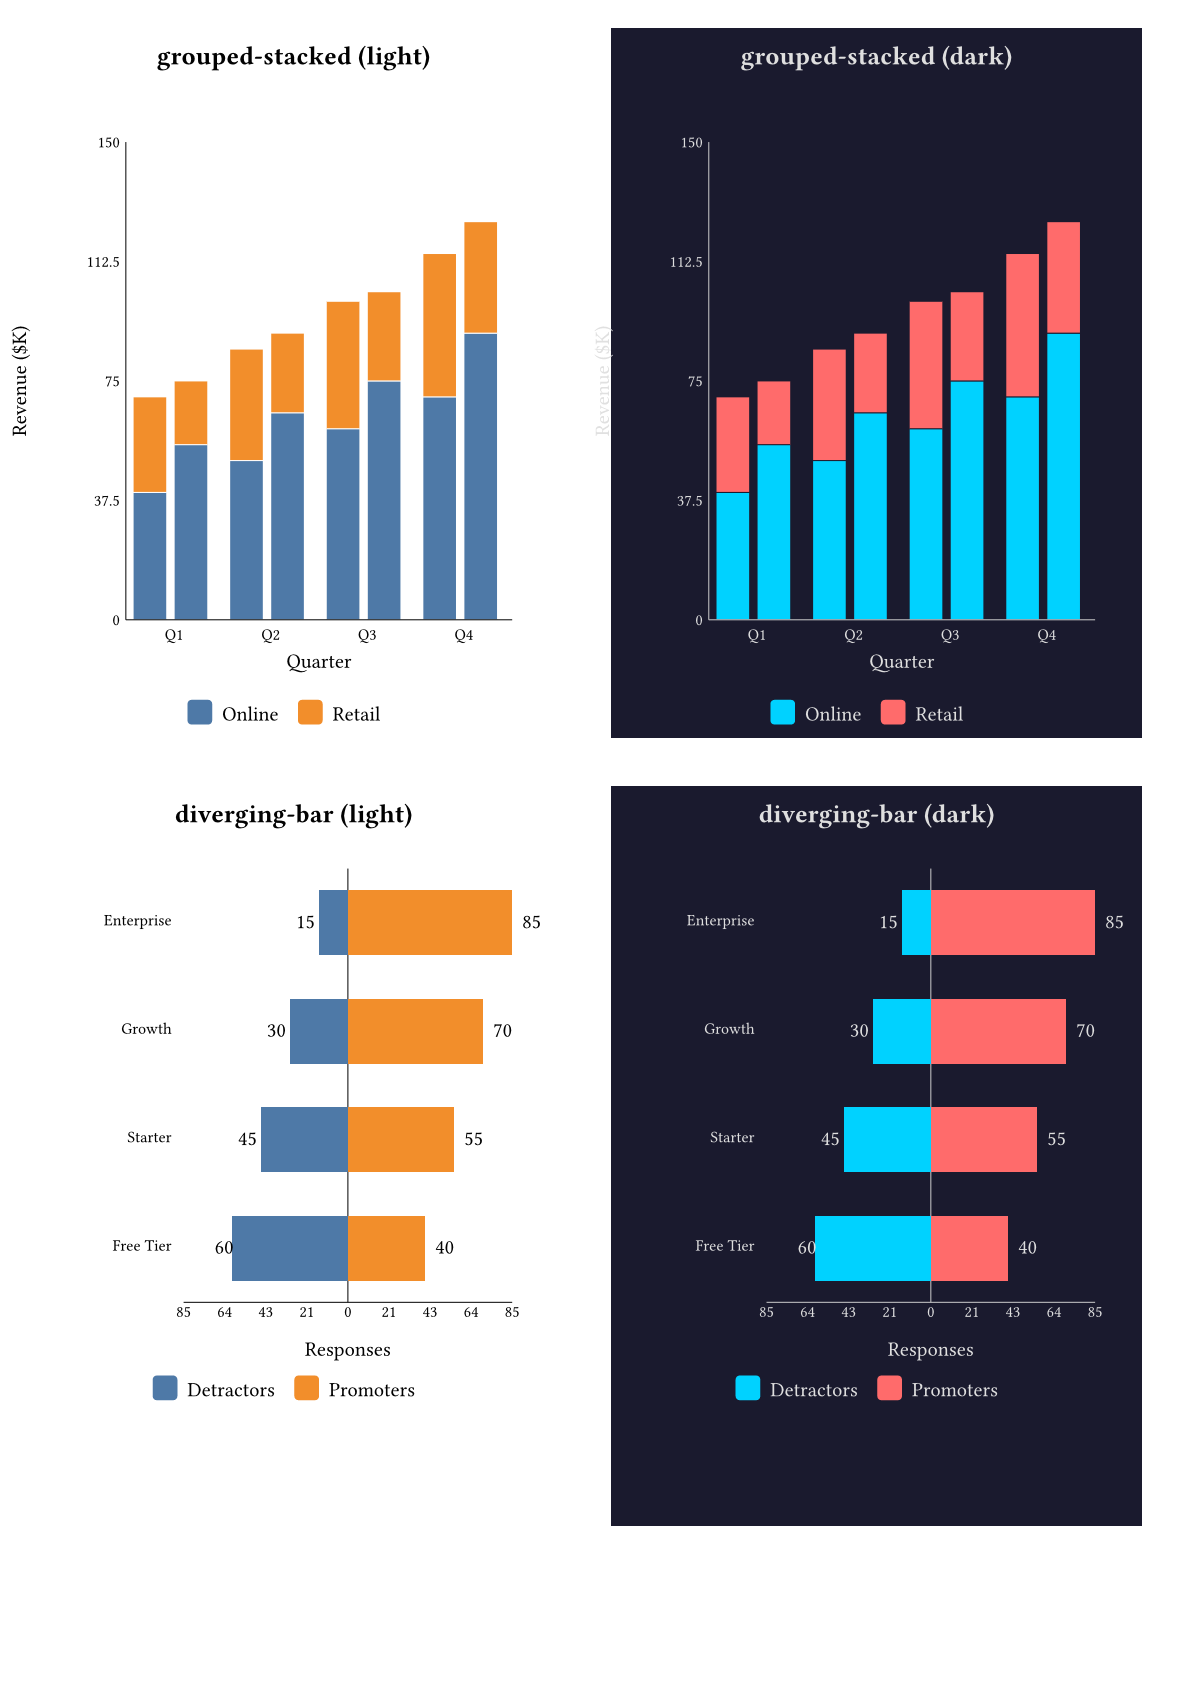
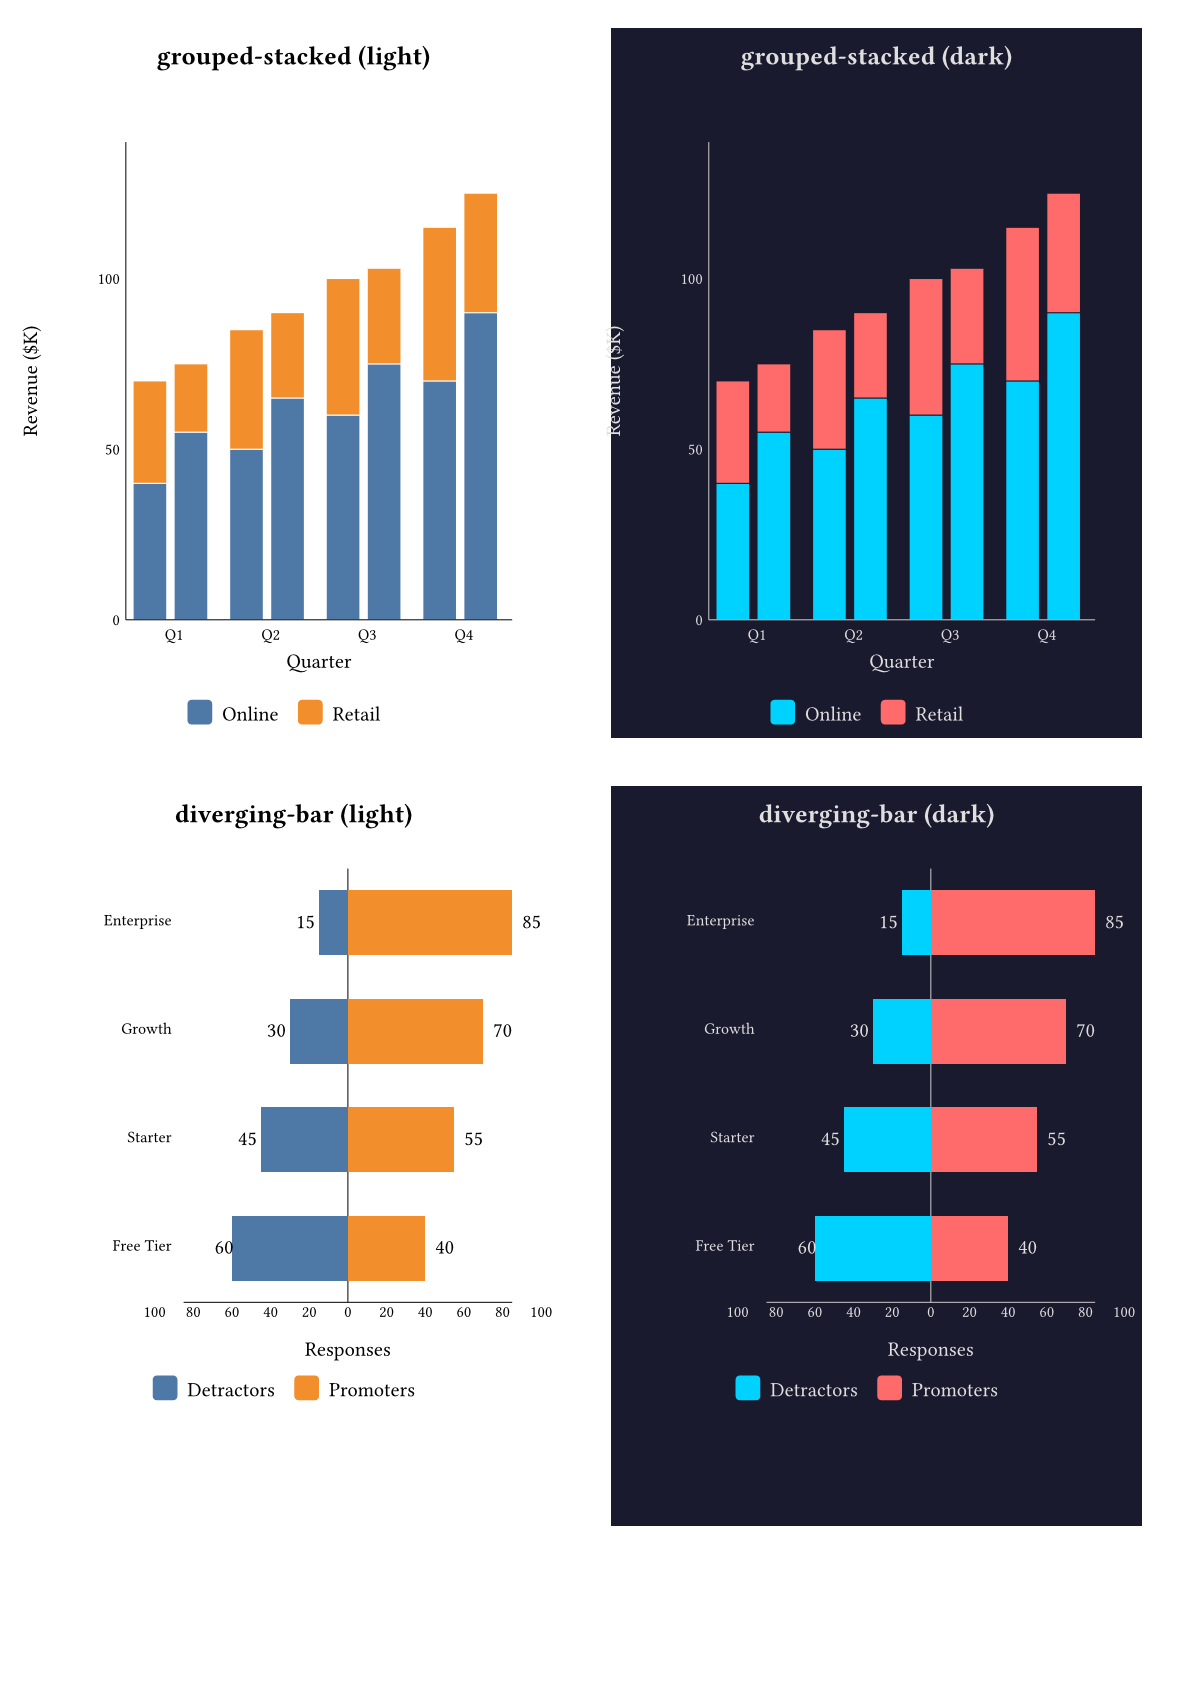
fix: nice-ticks algorithm for round axis labels (fixes #15)
Replace linear-interpolation tick generation with D3-style nice-ticks
algorithm that produces round, evenly-spaced tick values. Fixes duplicate
and misplaced tick labels when data ranges don't divide evenly into the
tick count (e.g. range 0-3 with 5 ticks produced 0, 0.75, 1.5, 2.25, 3
which rounded to 0, 1, 2, 2, 3 with digits:0).

- Rewrite nice-ticks() with D3 step selection (1, 2, 5, 10 × 10^n)
  using sqrt thresholds and Heckbert precision formula
- Add tick-digits theme key for explicit decimal place control
- Refactor draw-y-ticks, draw-x-ticks, measure-y-tick-width to use
  nice-ticks internally, removing hardcoded digits parameter
- Add num-ticks parameter to draw-grid and draw-axis-lines for
  grid/tick alignment
- Update 13 chart modules to use nice-ticks for axis ranges
- Clean up unused nice-ceil/nice-floor imports
- Regenerate screenshots

diff --git a/README.md b/README.md
@@ -47,6 +47,7 @@ just demo       # Compile the comprehensive demo
 - **50+ chart types** for data visualization
 - **JSON data input** — load data directly from JSON files
 - **Theme system** — golden-ratio proportional scaling from two seeds (`base-size`, `base-gap`), preset themes, custom overrides, and `with-theme()` for document-wide defaults
+- **Nice ticks** — D3-style axis tick algorithm produces round, evenly-spaced values; auto-detects decimal precision from step size
 - **Smart label placement** — automatic fit detection, font shrinking, and greedy deconfliction for overlapping labels
 - **Layout primitives** — shared utilities for label density, font scaling, and label placement
 - **Annotations** — overlay reference lines, bands, and labels on Cartesian charts
@@ -241,6 +242,7 @@ Pass a dictionary with only the keys you want to change. Unspecified keys fall b
 
 ```typst
 #bar-chart(data, theme: (show-grid: true, palette: (red, blue, green)))
+#bar-chart(data, theme: (tick-digits: 2))  // force 2 decimal places on axis ticks
 ```
 
 ### Theme from JSON
